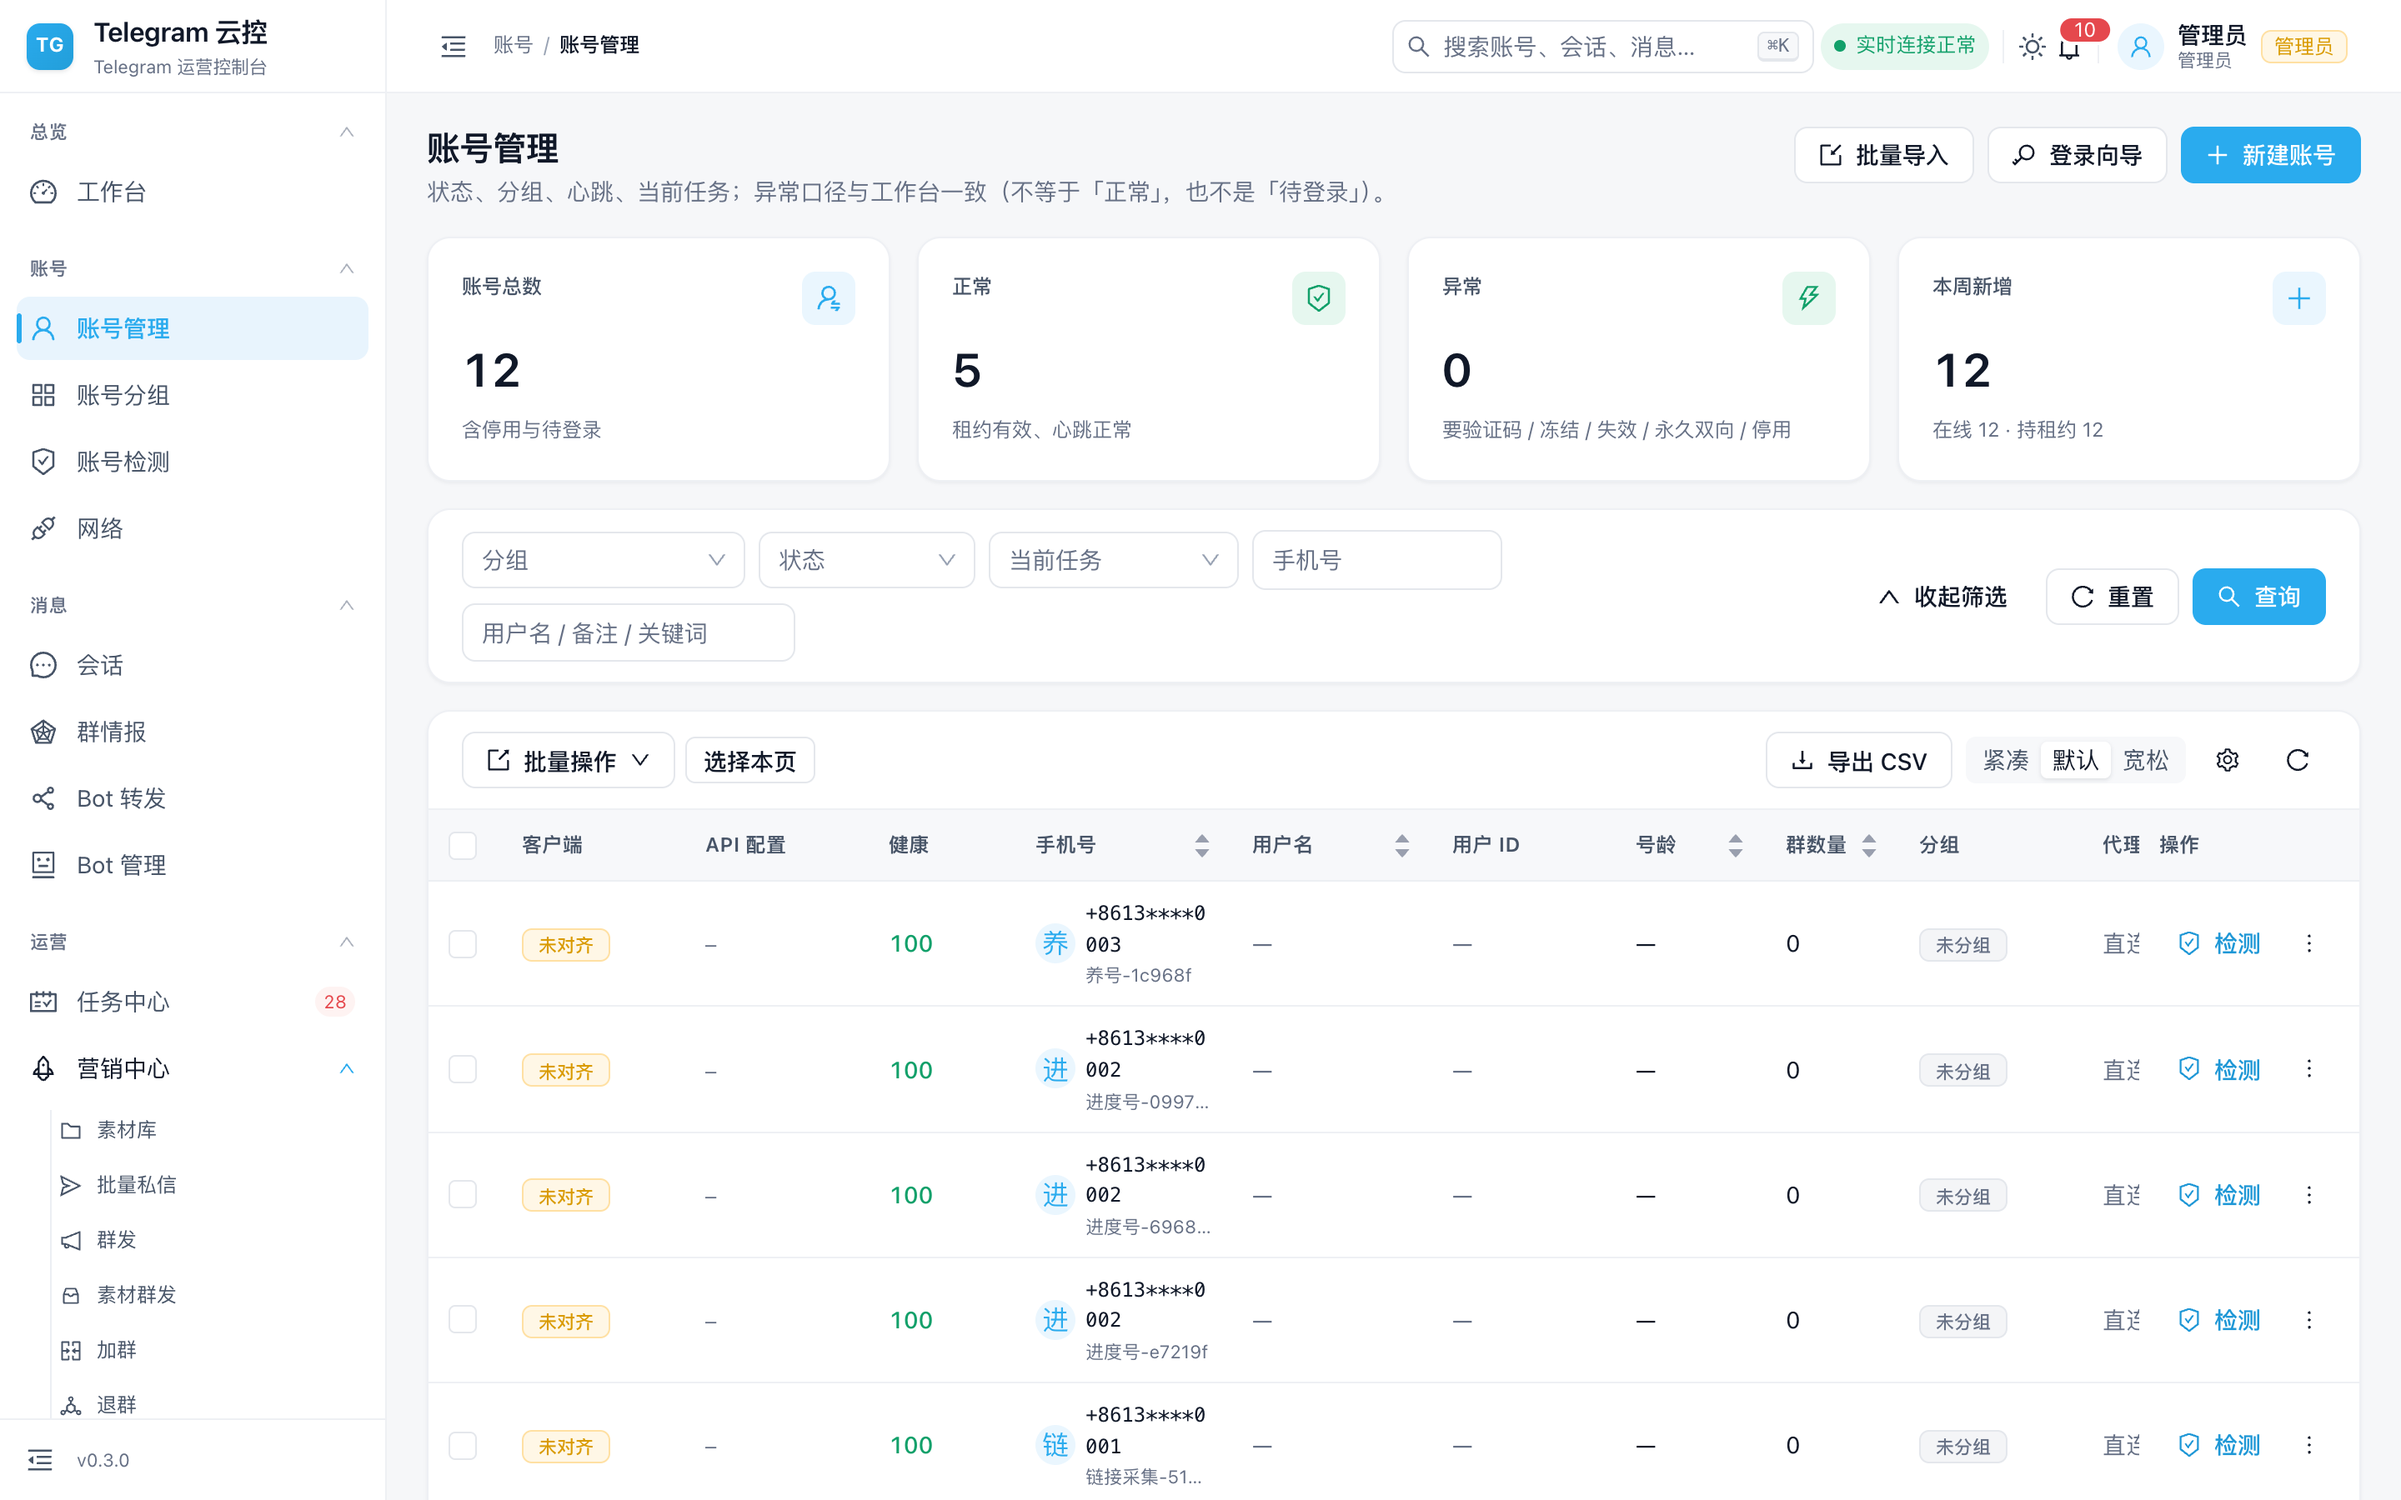
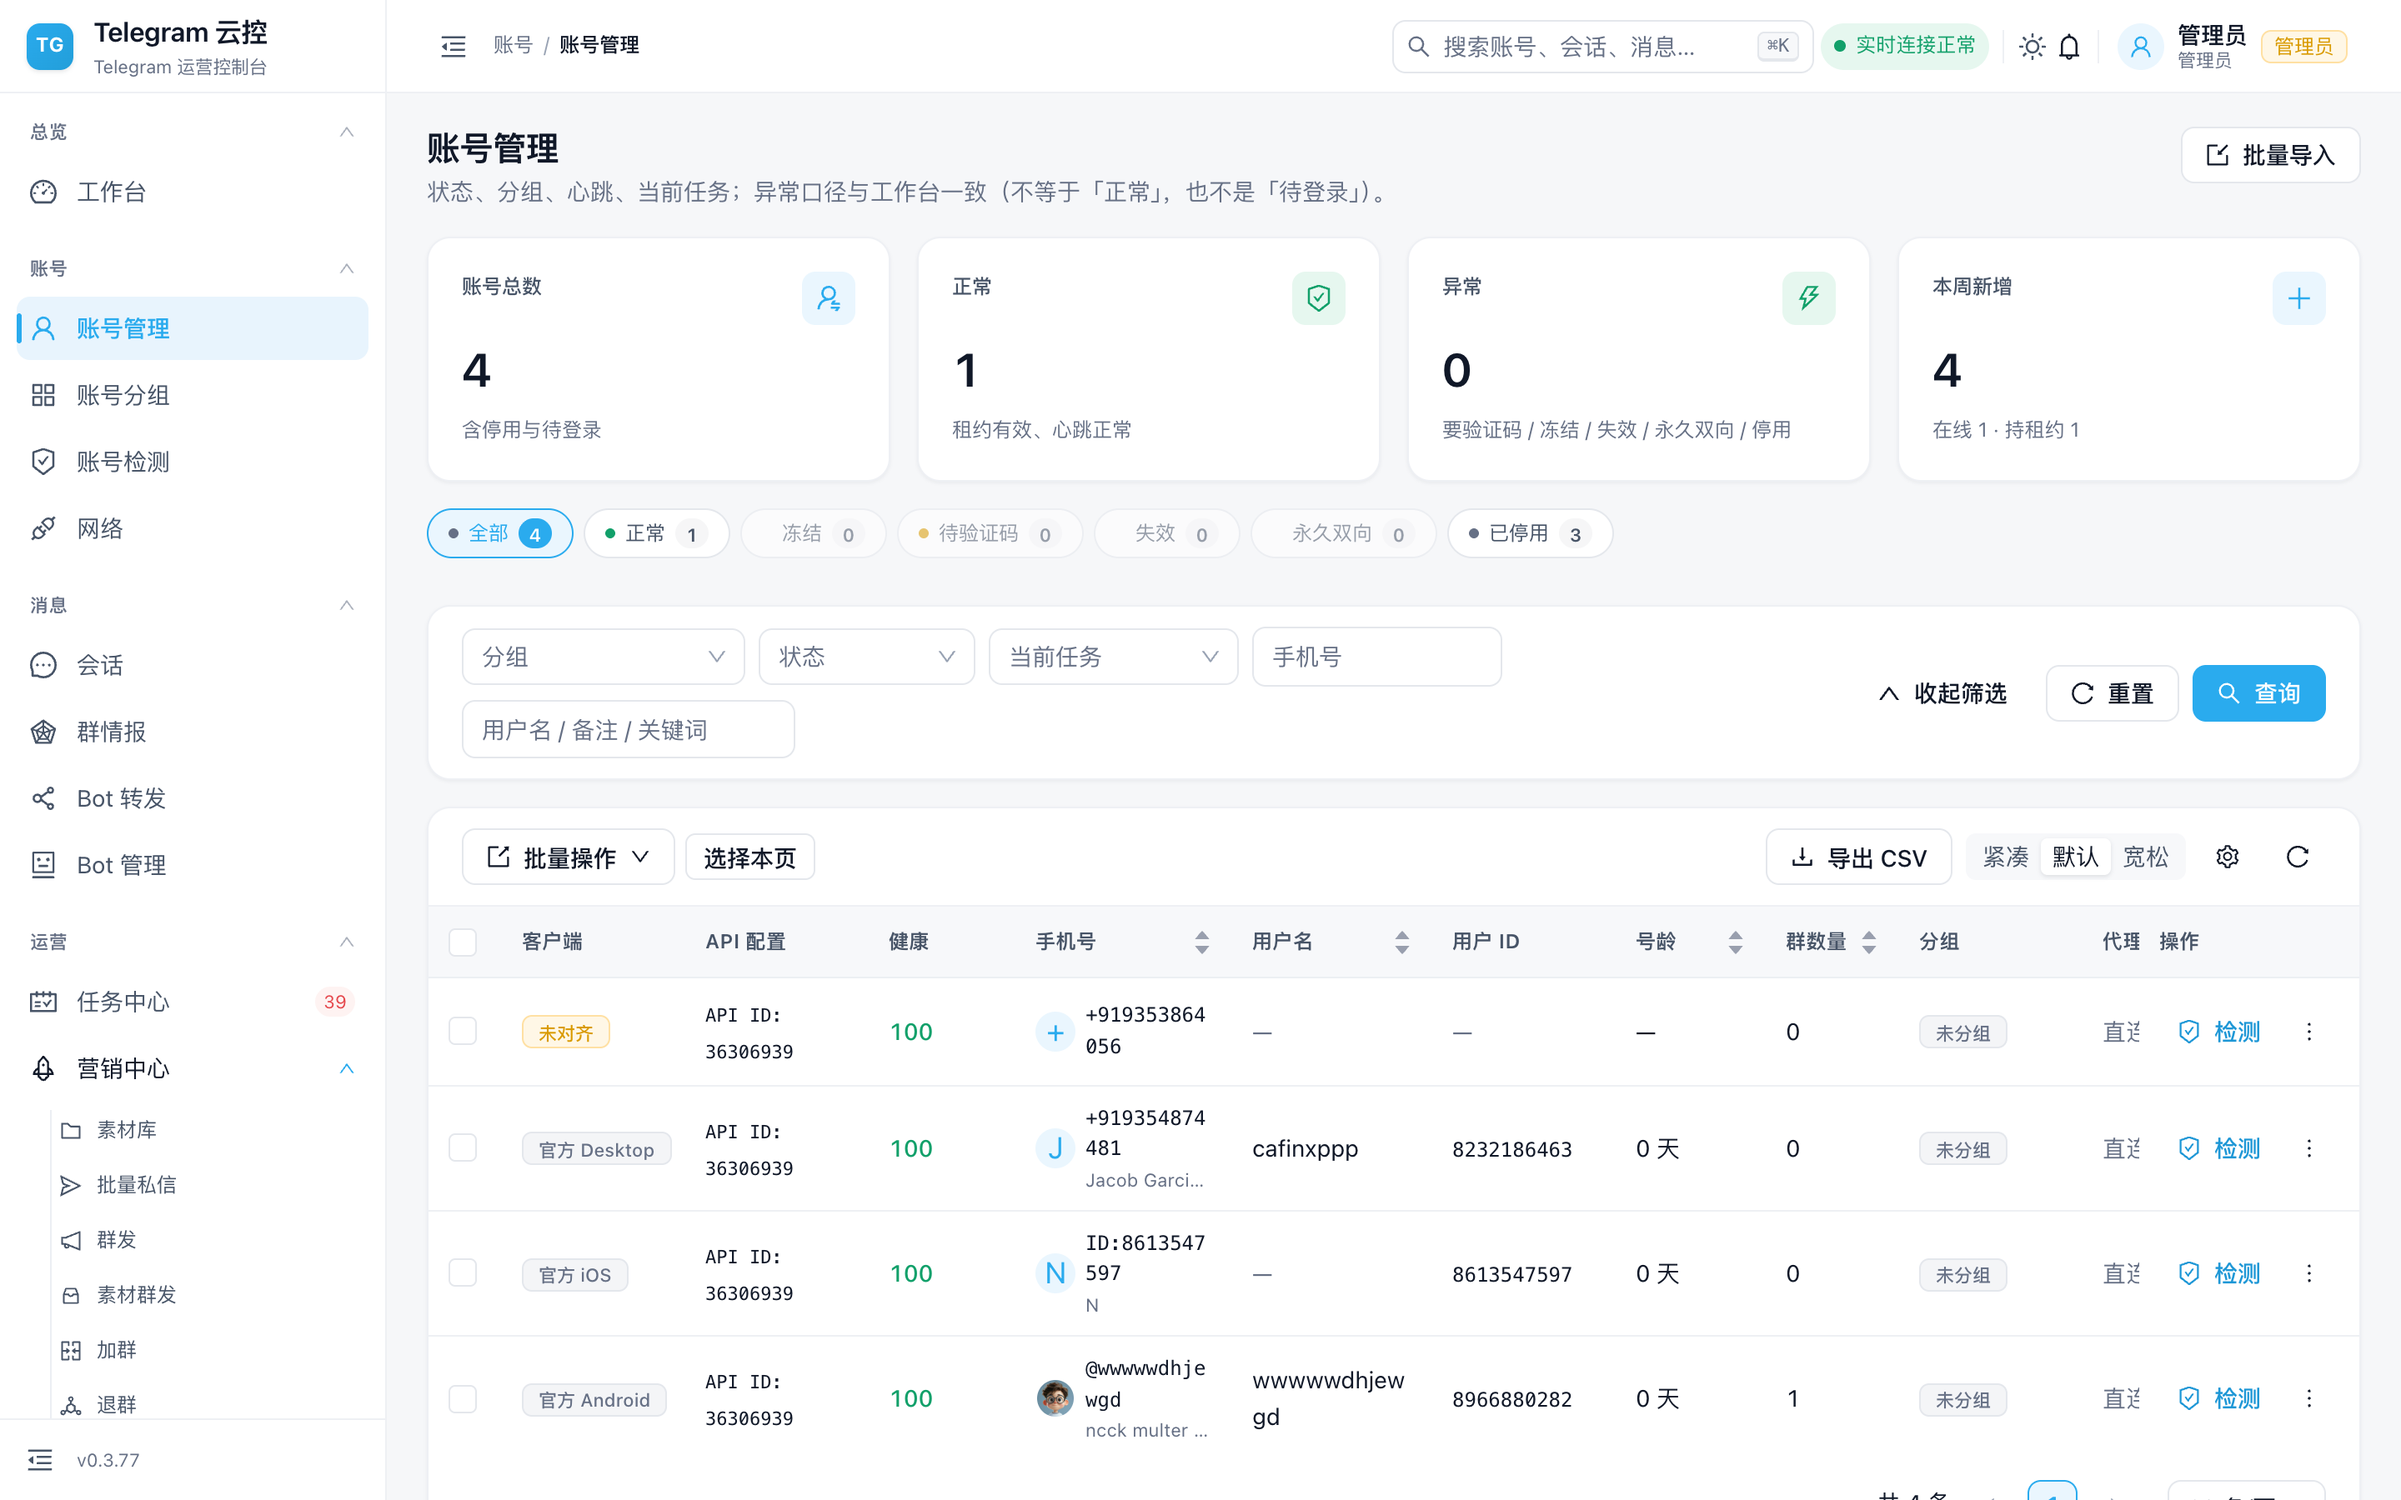
v0.3.79：修分类芯片样式（accounts.css 从未被引入）+ 重做外观
根因：features/accounts/accounts.css 从没被任何模块 import，所以芯片样式一条都没生效，
页面显示的是浏览器默认按钮样式（方角、文字与数字粘连）

修复：
- Accounts.tsx 引入该样式表
- 重做外观：胶囊、数字独立徽标、状态色点（正常绿/待验证码橙/冻结失效红）、
  零值淡到 55%、选中态蓝边+蓝底徽标

验证：账号页截图实测样式生效（胶囊+色点+徽标+零值弱化）

版本：VERSION → 0.3.79

diff --git a/frontend/src/features/accounts/accounts.css b/frontend/src/features/accounts/accounts.css
@@ -35,67 +35,85 @@
   color: var(--tg-color-info, var(--tg-color-primary));
 }
 
-/* 账号页状态分类芯片：异常态（冻结/失效/停用）各自成类，点一下只看那批 */
+/* 账号页状态分类芯片：胶囊 + 色点 + 数字徽标，异常态用色区分 */
 .tg-account-cats {
   display: flex;
   flex-wrap: wrap;
+  align-items: center;
   gap: var(--tg-space-sm);
-  margin-bottom: var(--tg-space-md);
+  margin-bottom: var(--tg-space-lg);
 }
+
 .tg-account-cat {
   display: inline-flex;
   align-items: center;
   gap: 6px;
-  height: 28px;
-  padding: 0 var(--tg-space-md);
-  border-radius: var(--tg-radius-pill);
+  height: 30px;
+  padding: 0 12px;
+  border-radius: 999px;
   border: 1px solid var(--tg-color-border);
   background: var(--tg-color-bg-card);
   color: var(--tg-color-text-secondary);
   font-size: var(--tg-font-size-sm);
+  line-height: 1;
   cursor: pointer;
+  transition: all var(--tg-motion-duration-fast) var(--tg-motion-ease-standard);
 }
+
+/* 色点：一眼区分正常 / 待处理 / 异常 */
+.tg-account-cat::before {
+  content: '';
+  width: 6px;
+  height: 6px;
+  border-radius: 50%;
+  background: var(--tg-color-text-tertiary);
+  flex: 0 0 auto;
+}
+.tg-account-cat.is-ok::before {
+  background: var(--tg-color-success);
+}
+.tg-account-cat.is-warn::before {
+  background: var(--tg-color-warning);
+}
+.tg-account-cat.is-danger::before {
+  background: var(--tg-color-error);
+}
+
+/* 数字做成小徽标，与文字分开，不和标签粘在一起 */
 .tg-account-cat b {
+  display: inline-flex;
+  align-items: center;
+  justify-content: center;
+  min-width: 20px;
+  height: 18px;
+  padding: 0 5px;
+  border-radius: 999px;
+  background: var(--tg-color-bg-hover);
   font-family: var(--tg-font-mono);
+  font-size: var(--tg-font-size-xs);
+  font-weight: var(--tg-font-weight-semibold);
   color: var(--tg-color-text);
 }
+
 .tg-account-cat:hover {
   border-color: var(--tg-color-border-strong);
+  background: var(--tg-color-bg-hover);
 }
+
 .tg-account-cat.is-active {
   border-color: var(--tg-color-primary);
   background: var(--tg-color-primary-bg);
   color: var(--tg-color-primary);
 }
-.tg-account-cat.is-danger b {
-  color: var(--tg-color-error);
-}
-.tg-account-cat.is-warn b {
-  color: var(--tg-color-warning);
-}
-.tg-account-cat.is-ok b {
-  color: var(--tg-color-success);
-}
-.tg-account-cat.is-muted b {
-  color: var(--tg-color-text-tertiary);
+.tg-account-cat.is-active b {
+  background: var(--tg-color-primary);
+  color: #fff;
 }
 
-/* 表单网格：把平铺一列的字段排成自适应多列，宽度不一的输入框也能对齐 */
-.tg-form-grid {
-  display: grid;
-  grid-template-columns: repeat(auto-fit, minmax(190px, 1fr));
-  gap: var(--tg-space-md) var(--tg-space-lg);
-  align-items: start;
+/* 计数为 0 的格子弱化，不跟有数的抢注意力 */
+.tg-account-cat.is-zero {
+  opacity: 0.55;
 }
-.tg-form-grid .ant-form-item {
-  margin-bottom: 0;
-}
-/* 分组小标题：让「内容 / 节奏与配额 / 执行方式」一眼分开 */
-.tg-form-group-title {
-  margin: var(--tg-space-sm) 0 var(--tg-space-xs);
-  padding-left: 8px;
-  border-left: 3px solid var(--tg-color-primary);
-  font-weight: var(--tg-font-weight-semibold);
-  font-size: var(--tg-font-size-sm);
-  color: var(--tg-color-text-secondary);
+.tg-account-cat.is-zero:hover {
+  opacity: 1;
 }

diff --git a/frontend/src/pages/Accounts.tsx b/frontend/src/pages/Accounts.tsx
@@ -16,6 +16,7 @@ import {
 } from '@ant-design/icons';
 import { api } from '../api/client';
 import { accountApi, accountBulkApiExtra, exportApi, groupApi, proxyApi, userApi } from '../api/endpoints';
+import '../features/accounts/accounts.css';
 import { useAsyncData } from '../hooks/useAsyncData';
 import { useTableQuery, buildActiveFilters } from '../hooks/useTableQuery';
 import { useAuth } from '../auth/AuthContext';
@@ -566,7 +567,12 @@ export default function Accounts() {
               <button
                 key={cat.key || 'all'}
                 type="button"
-                className={['tg-account-cat', cat.tone ?? '', current === cat.key ? 'is-active' : '']
+                className={[
+                  'tg-account-cat',
+                  cat.tone ?? '',
+                  count === 0 && cat.key ? 'is-zero' : '',
+                  current === cat.key ? 'is-active' : '',
+                ]
                   .filter(Boolean)
                   .join(' ')}
                 onClick={() => q.setFilter('status', cat.key)}

diff --git a/CHANGELOG.md b/CHANGELOG.md
@@ -7,6 +7,29 @@
 
 ---
 
+## v0.3.79 — 2026-03-30
+
+主题：**状态分类芯片的样式一直是废的**（CSS 文件从没被引入）。
+
+### 修复
+
+- 上上版写的分类芯片样式**完全没生效**——截图里那排是浏览器默认按钮样式（方角、文字与数字粘在一起）。
+  根因很直白：`features/accounts/accounts.css` 这个文件**从没被任何模块 import**，
+  所以里面的规则一条都没加载。
+- 现在：`Accounts.tsx` 里引入该样式表，并重做芯片外观：
+  - **胶囊**（`border-radius: 999px`）、文字与数字**分开**（数字做成小徽标）；
+  - **状态色点**：正常=绿、待验证码=橙、冻结/失效/永久双向=红、其他=灰；
+  - **计数为 0 的格子淡到 55%**，不跟有数的抢注意力；
+  - **选中态**：蓝边 + 蓝底数字徽标，一眼看出正在筛哪一类。
+- 顺带排查了同类问题：`tasks.css` 等其它样式表都有正常引入，只有这一处漏了。
+
+### 验证
+
+账号页截图实测：芯片已是胶囊样式，色点与数字徽标正确，选中项「全部 4」蓝底高亮，
+零值项（冻结 0 / 失效 0 / 永久双向 0）明显弱化。
+
+---
+
 ## v0.3.78 — 2026-03-30
 
 主题：**批量删除账号**。
